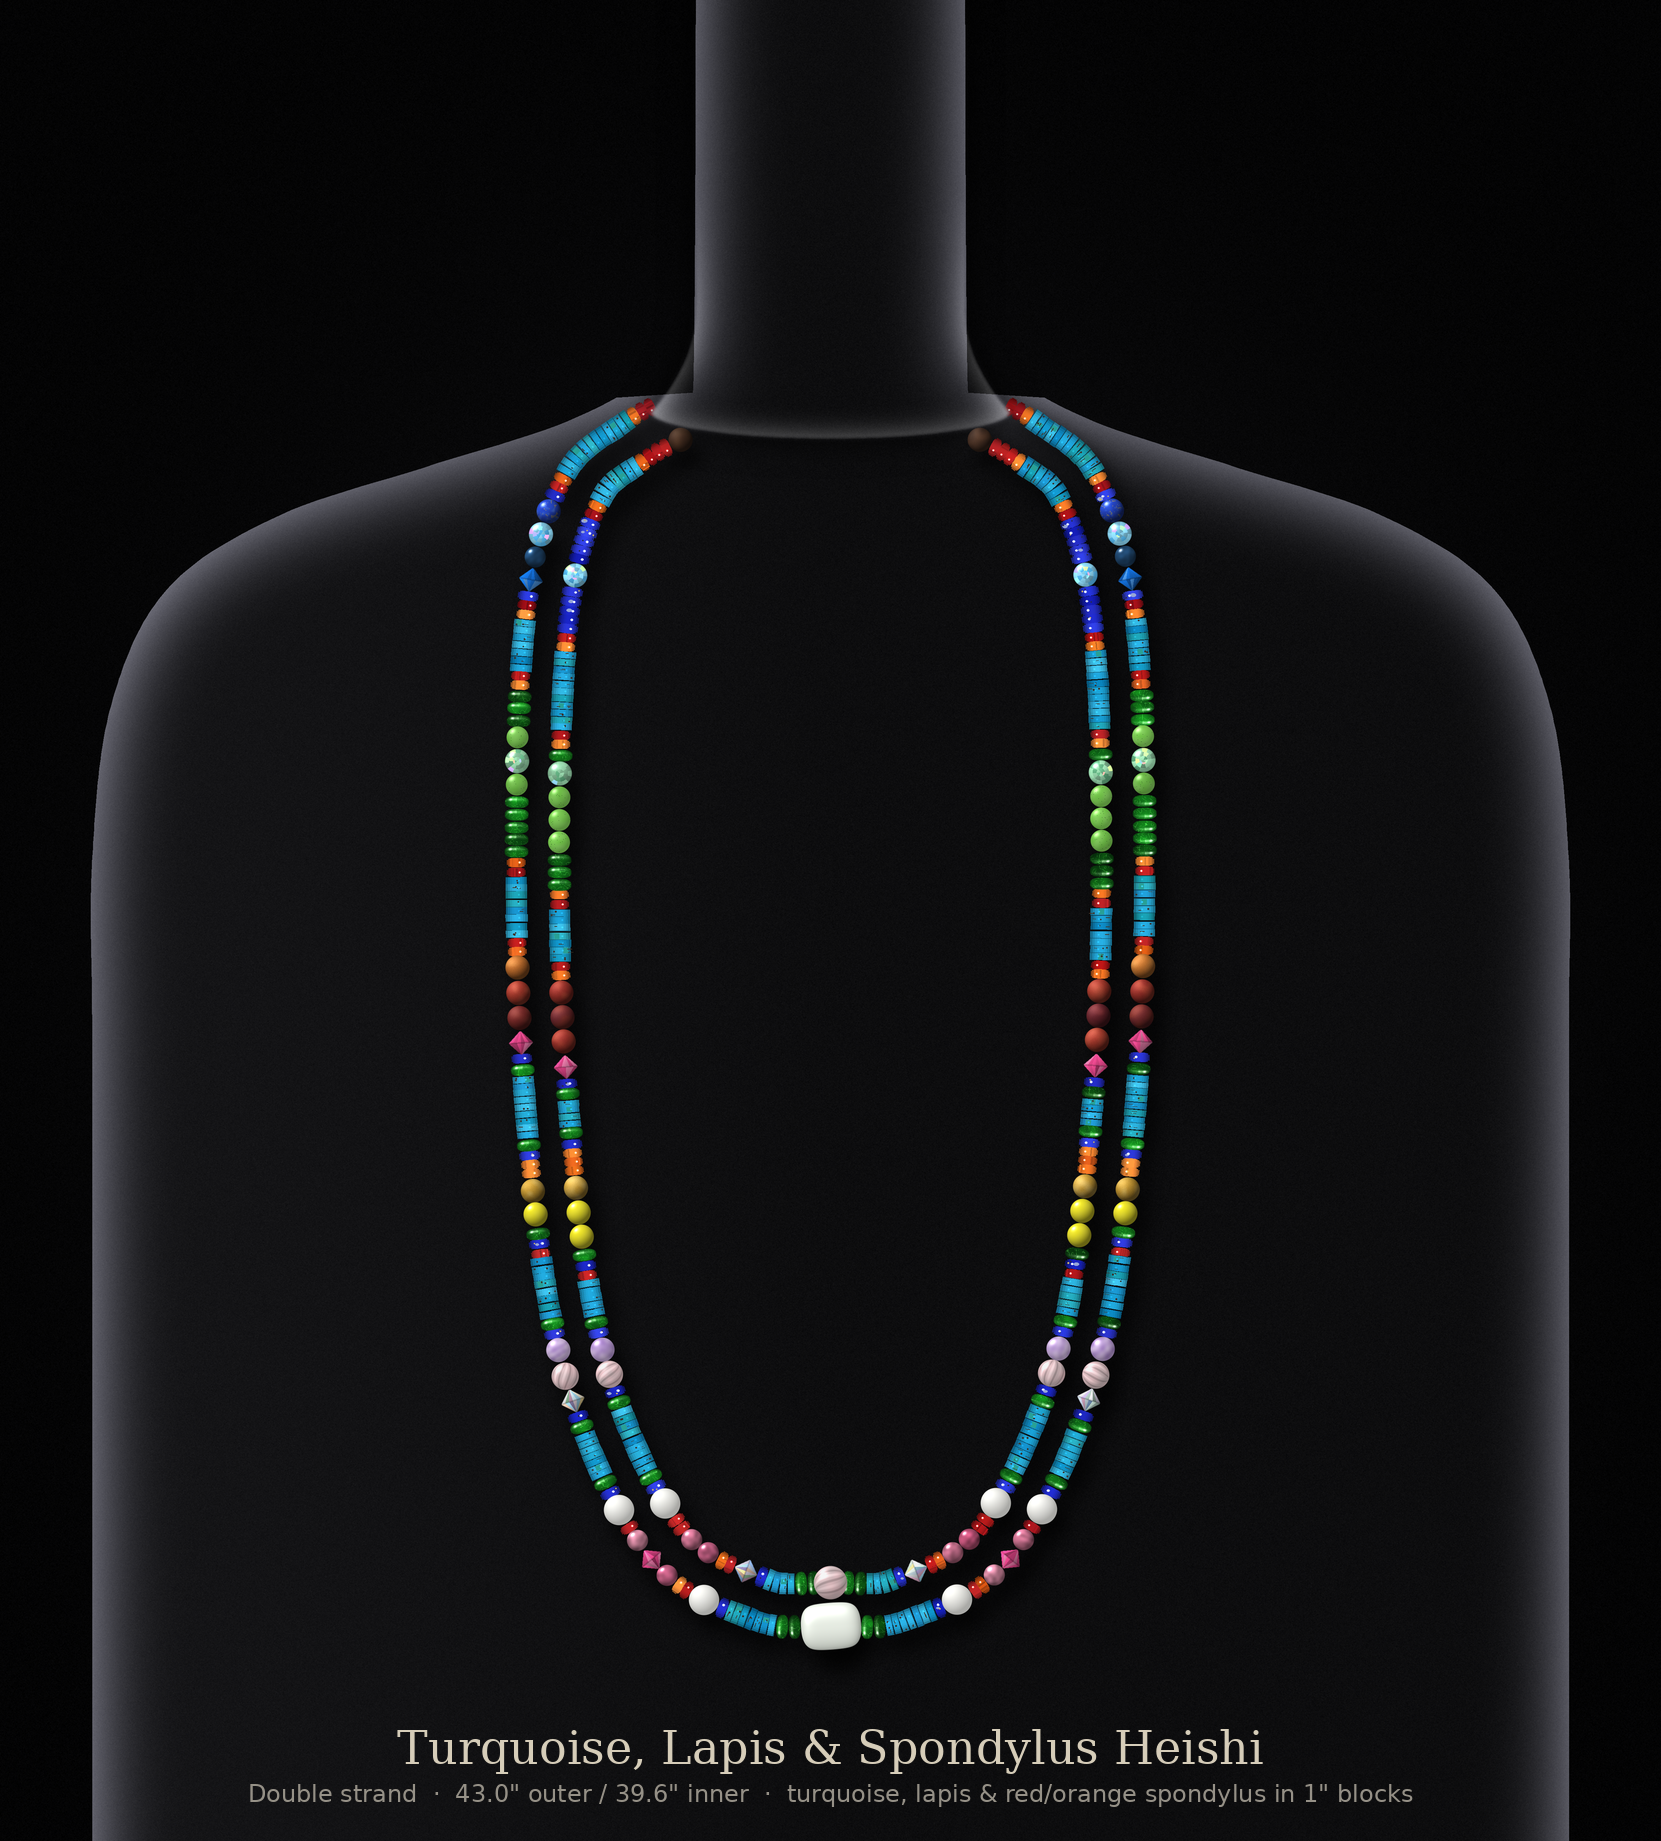
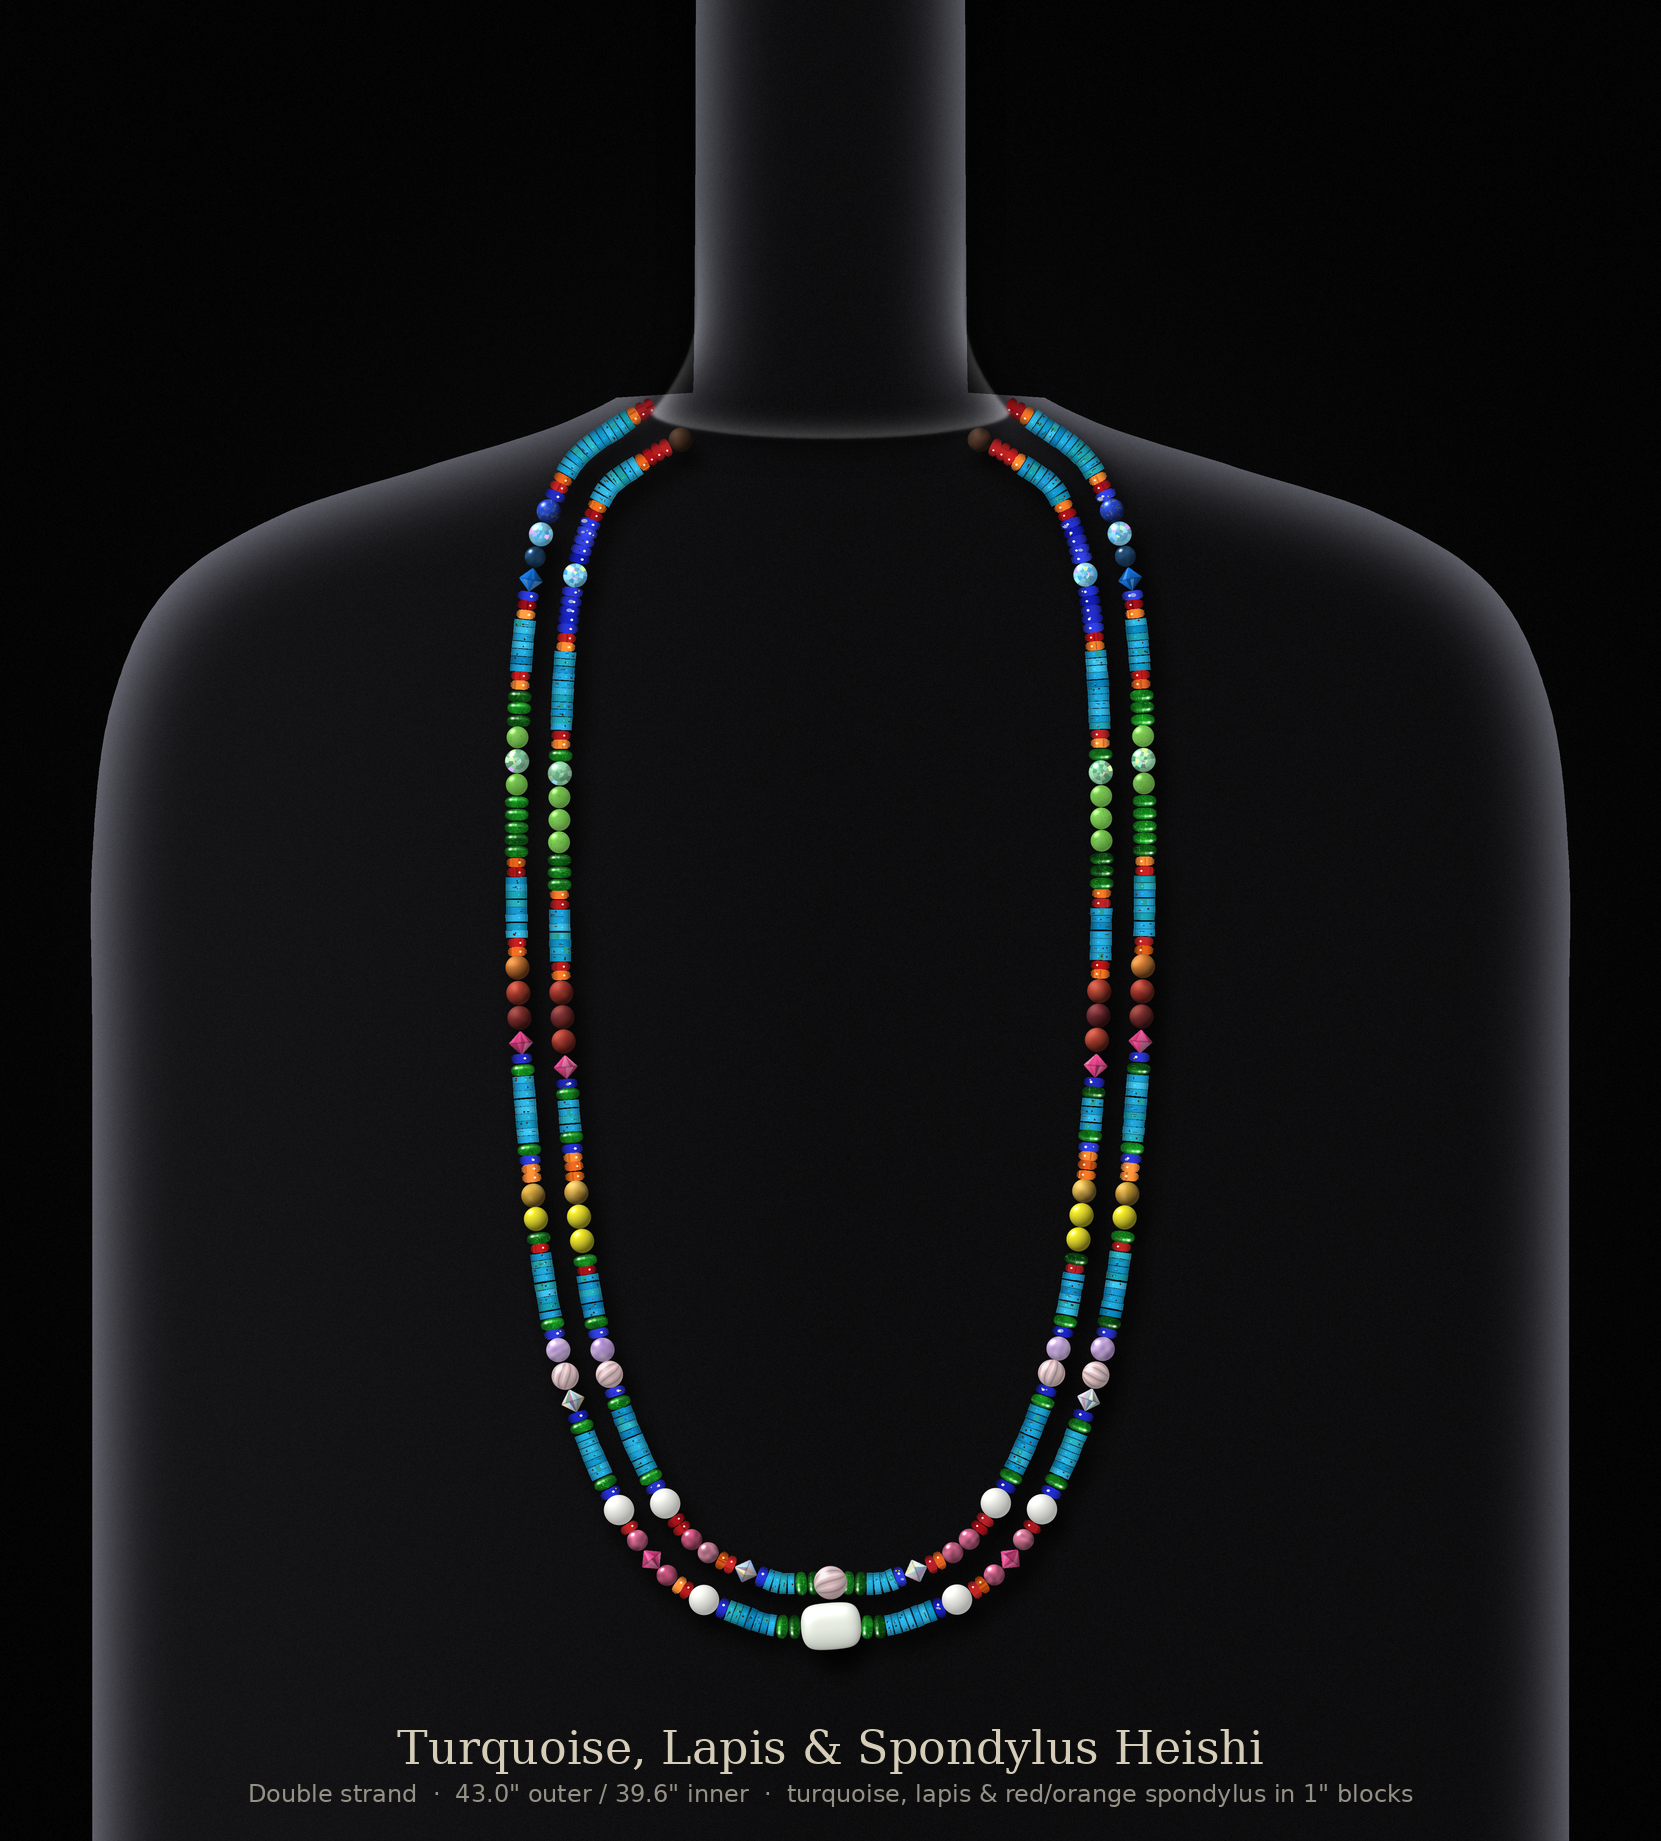
Version 5: remove the lapis under the yellow band's green, red touches the green
Claude-Session: https://claude.ai/code/session_014be1vF4Rdf8sv9Si75Gudv

diff --git a/necklace/render_necklace.py b/necklace/render_necklace.py
@@ -1076,7 +1076,7 @@ if V4:
         BANDS = [tuple([("red" if k == "redglass" else k) for k in x] for x in bb) for bb in BANDS]
         def _diop_up(seq):                          # green diopside moves up, right under the yellow glass
             seq = list(seq); assert seq[-4:] == ["yellow", "lapisH", "red", "diop"], seq
-            seq[-3:] = ["diop", "lapisH", "red"]; return seq
+            seq[-3:] = ["diop", "red"]; return seq   # lapis under the green removed: red touches the green
         BANDS[3] = tuple(_diop_up(b) for b in BANDS[3])
         # yellow band moves down, between the mookaite (brown) band and the white band
         _ord = [0, 1, 2, 4, 5, 6, 3, 7, 8]
@@ -1187,6 +1187,7 @@ if V4:
                 widths[6] += SZ["orange"]           # ...into the room left by the orange removed from the top of the yellow band
                 widths[6] -= SZ["diop"] - SZ["orange"]   # yellow band's top diopside (1 mm more than the orange it replaced)
                 widths[6] -= SZ["diop"]             # yellow band's bottom diopside
+                widths[6] += SZ["lapisH"]           # its bottom lapis removed: layout as before
                 if st == 1:
                     widths[6] -= SZ["redglass"]     # inner yellow band's extra red glass (the outer's replaces its old one)
                 widths[8] -= SZ["diop"]             # diopside above the white opal: band grows upward, room from the neck
@@ -1274,6 +1275,9 @@ if V4:
                 widths[6] += SZ["diop"]
                 gaps[6] -= SZ["diop"] / 2               # bottom diopside: half from the run above (band stays centred)...
                 gaps[7] -= SZ["diop"] / 2               # ...half from the run below
+                widths[6] -= SZ["lapisH"]
+                gaps[6] += SZ["lapisH"] / 2             # lapis removed: band stays centred, turquoise either side 1.5 mm longer
+                gaps[7] += SZ["lapisH"] / 2
                 if st == 1:
                     widths[6] += SZ["redglass"]
                     gaps[6] -= SZ["redglass"] / 2       # inner red glass: half from the run above, half from below
